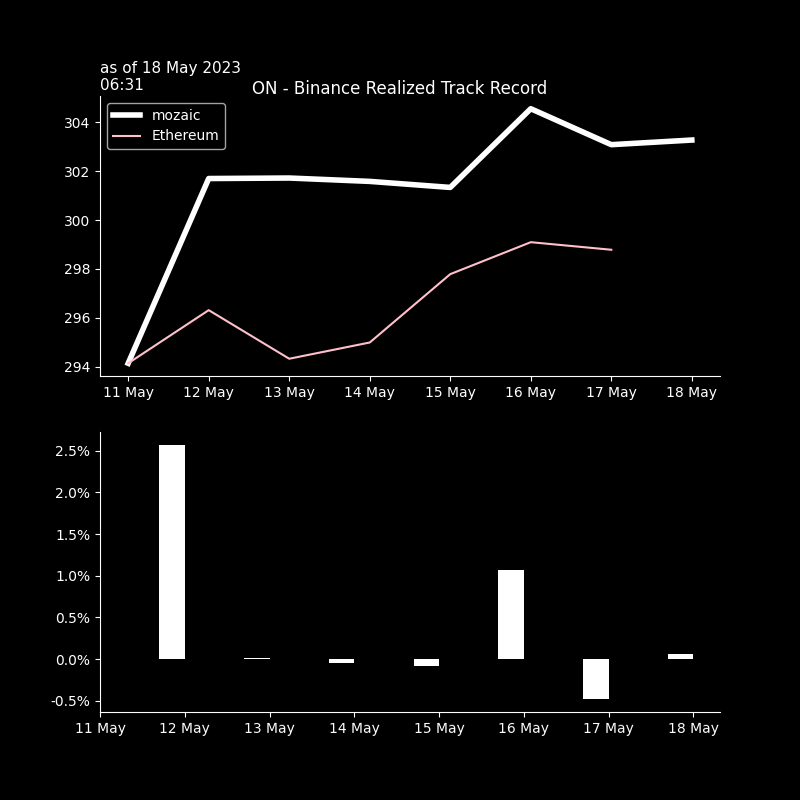
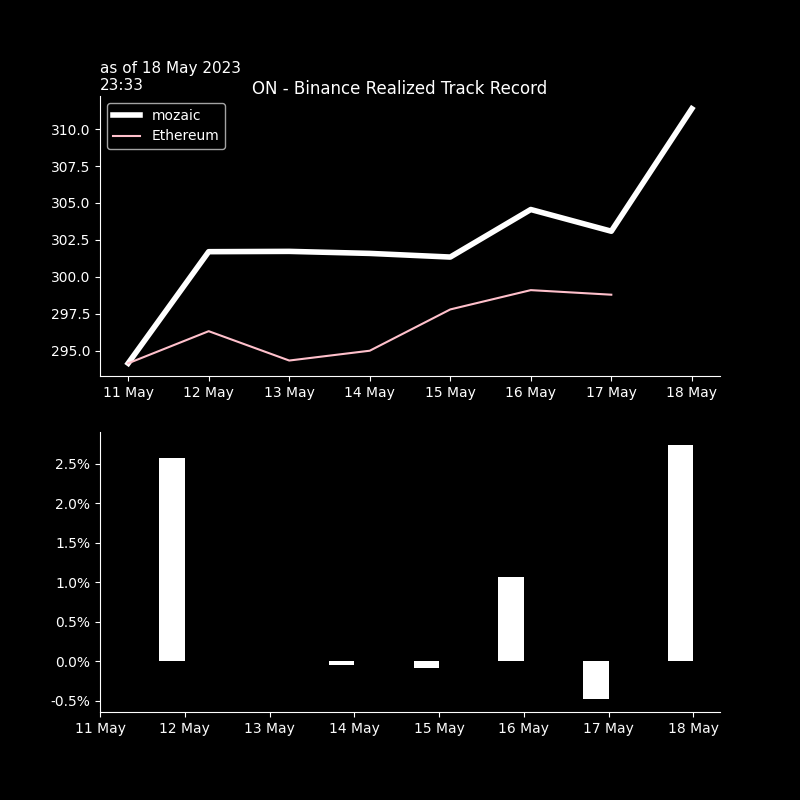
seb_commit

diff --git a/crypto/graphs/bt_trades_book.htmltrade_trades_book.html b/crypto/graphs/bt_trades_book.htmltrade_trades_book.html
@@ -37,53 +37,53 @@
   </thead>
   <tbody>
     <tr>
-      <th>ETHUSDT</th>
-      <td>1781.6500</td>
-      <td>2023-05-18 18:33:14</td>
-      <td>0.085</td>
-      <td>$151.4</td>
-      <td>$0.03</td>
+      <th>BTCUSDT</th>
+      <td>26881.6000</td>
+      <td>2023-05-18 22:33:25</td>
+      <td>-0.007</td>
+      <td>$-188.2</td>
+      <td>$0.04</td>
       <td>2.0</td>
-      <td>0.0</td>
-      <td>1780.66500</td>
-      <td>2023-05-18 19:31</td>
+      <td>1.8</td>
+      <td>26894.95000</td>
+      <td>2023-05-18 23:31</td>
       <td>-0.1</td>
       <td>-5.0</td>
-      <td>1781.25</td>
+      <td>26884.7</td>
       <td>-0.0</td>
-      <td>-2.0</td>
+      <td>-1.0</td>
     </tr>
     <tr>
       <th>XRPUSDT</th>
-      <td>0.4498</td>
-      <td>2023-05-18 18:31:47</td>
-      <td>336.800</td>
-      <td>$151.5</td>
+      <td>0.4623</td>
+      <td>2023-05-18 22:32:38</td>
+      <td>-336.800</td>
+      <td>$-155.7</td>
       <td>$0.03</td>
       <td>2.0</td>
+      <td>4.2</td>
+      <td>0.46255</td>
+      <td>2023-05-18 23:31</td>
+      <td>-0.1</td>
+      <td>-5.0</td>
+      <td>.4622</td>
       <td>0.0</td>
-      <td>0.45035</td>
-      <td>2023-05-18 19:31</td>
-      <td>0.2</td>
-      <td>13.0</td>
-      <td>.4509</td>
-      <td>0.4</td>
-      <td>24.0</td>
+      <td>2.0</td>
     </tr>
     <tr>
-      <th>BTCUSDT</th>
-      <td>26579.2000</td>
-      <td>2023-05-18 18:32:51</td>
-      <td>0.006</td>
-      <td>$159.5</td>
+      <th>ETHUSDT</th>
+      <td>1808.6000</td>
+      <td>2023-05-18 22:33:22</td>
+      <td>-0.085</td>
+      <td>$-153.7</td>
       <td>$0.03</td>
       <td>2.0</td>
-      <td>0.0</td>
-      <td>26573.25000</td>
-      <td>2023-05-18 19:31</td>
-      <td>-0.0</td>
-      <td>-3.0</td>
-      <td>26576.</td>
+      <td>2.3</td>
+      <td>1809.63500</td>
+      <td>2023-05-18 23:31</td>
+      <td>-0.1</td>
+      <td>-6.0</td>
+      <td>1808.71</td>
       <td>-0.0</td>
       <td>-1.0</td>
     </tr>

diff --git a/crypto/graphs/bt_trades_pnlD_recap.htmltrade_trades_pnlD_recap.html b/crypto/graphs/bt_trades_pnlD_recap.htmltrade_trades_pnlD_recap.html
@@ -1,7 +1,7 @@
 <table border="1" class="dataframe">
   <thead>
     <tr style="text-align: right;">
-      <th>18 May 19:33</th>
+      <th>18 May 23:33</th>
       <th>realizedPnl</th>
       <th>PnLvsArrival</th>
       <th>PnLvsLast</th>
@@ -10,21 +10,21 @@
   <tbody>
     <tr>
       <th>in$</th>
-      <td>0.0</td>
-      <td>0.1</td>
-      <td>0.3</td>
+      <td>8.3</td>
+      <td>-0.3</td>
+      <td>-0.0</td>
     </tr>
     <tr>
-      <th>in bp 462 traded</th>
-      <td>0 bp</td>
-      <td>2 bp</td>
-      <td>7 bp</td>
+      <th>in bp 497 traded</th>
+      <td>167 bp</td>
+      <td>-5 bp</td>
+      <td>-0 bp</td>
     </tr>
     <tr>
-      <th>in bp 303 AUMs</th>
-      <td>0 bp</td>
-      <td>2 bp</td>
-      <td>11 bp</td>
+      <th>in bp 311 AUMs</th>
+      <td>267 bp</td>
+      <td>-8 bp</td>
+      <td>-0 bp</td>
     </tr>
   </tbody>
 </table>

diff --git a/crypto/graphs/bt_trades_recap.htmltrade_trades_recap.html b/crypto/graphs/bt_trades_recap.htmltrade_trades_recap.html
@@ -9,32 +9,32 @@
   <tbody>
     <tr>
       <th>as of</th>
-      <td>18May 18:31&gt;&gt;18:33</td>
+      <td>18May 22:32&gt;&gt;22:33</td>
       <td>#trades: 3</td>
     </tr>
     <tr>
       <th>trade net</th>
-      <td>+462.0</td>
-      <td>+152.3%</td>
+      <td>-498.0</td>
+      <td>-159.7%</td>
     </tr>
     <tr>
       <th>trade gross</th>
-      <td>+462.0</td>
-      <td>+152.3%</td>
+      <td>+498.0</td>
+      <td>+159.7%</td>
     </tr>
     <tr>
       <th>BUY</th>
-      <td>+462.0</td>
-      <td>+152.3%</td>
-    </tr>
-    <tr>
-      <th>SELL</th>
       <td>+0.0</td>
       <td>+0.0%</td>
     </tr>
     <tr>
+      <th>SELL</th>
+      <td>-498.0</td>
+      <td>-159.7%</td>
+    </tr>
+    <tr>
       <th>fees</th>
-      <td>$ 0.092</td>
+      <td>$ 0.1</td>
       <td>2.0bp</td>
     </tr>
   </tbody>
